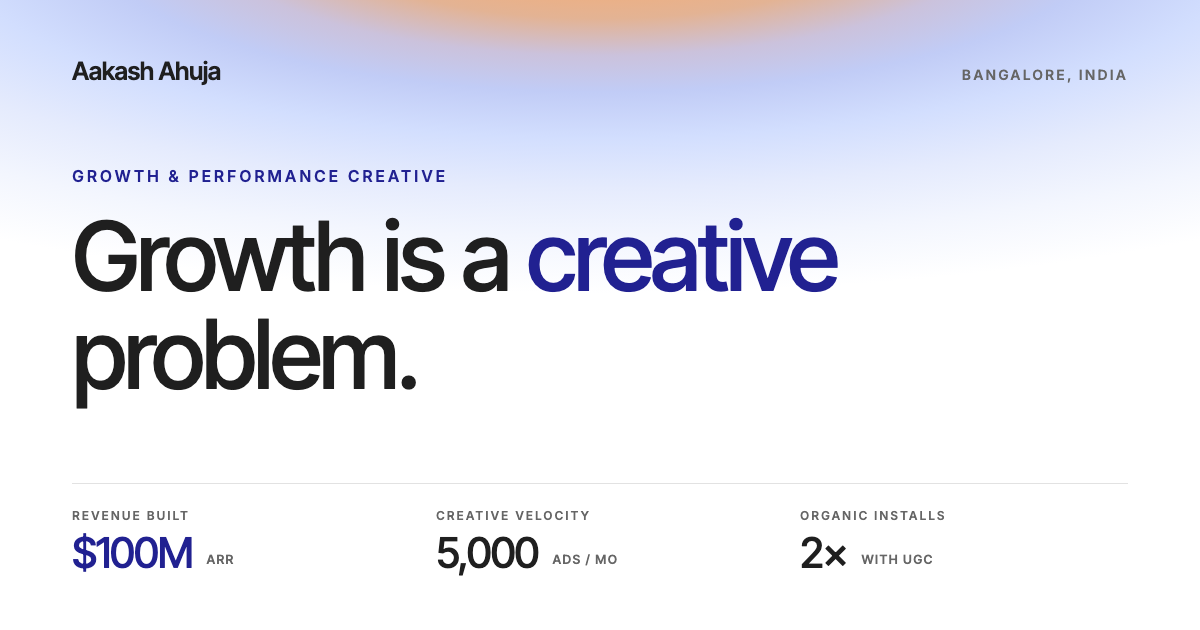
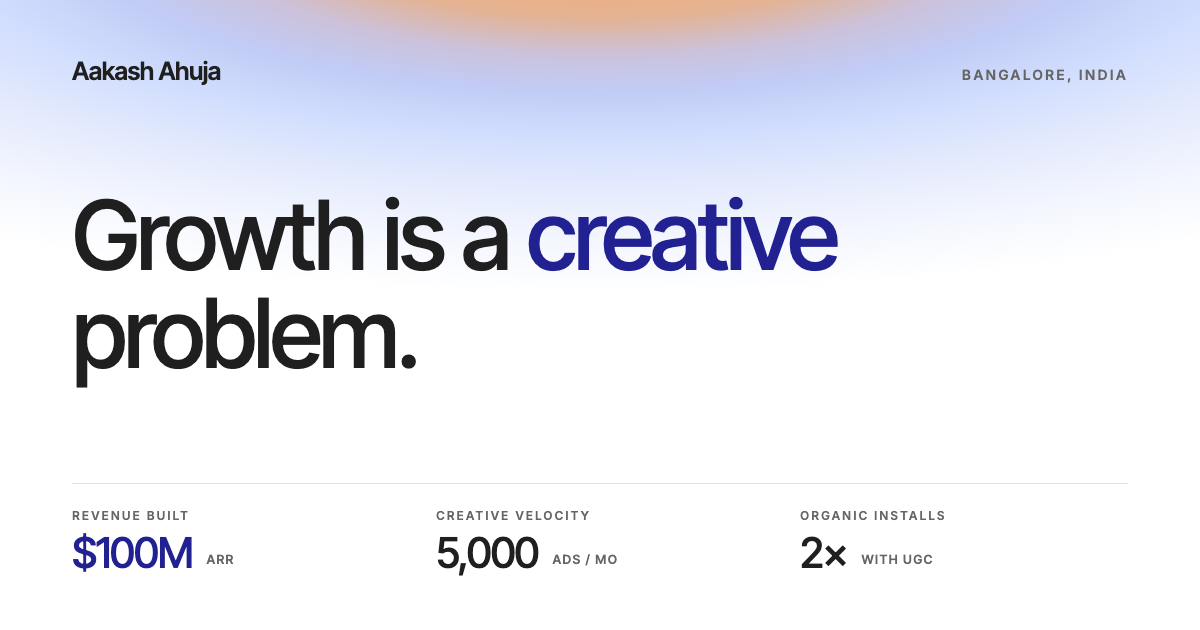
Drop "Growth & Performance Creative" from title, meta and card
Title and og/twitter titles are now just "Aakash Ahuja". Image alt now
describes the headline instead. The link-preview card loses its eyebrow,
which gives the headline more room.

Changed region(s): [[0.0617, 0.2714, 0.7092, 0.6635]]

diff --git a/index.html b/index.html
@@ -3,14 +3,14 @@
 <head>
 <meta charset="utf-8">
 <meta name="viewport" content="width=device-width, initial-scale=1">
-<title>Aakash Ahuja — Growth & Performance Creative</title>
+<title>Aakash Ahuja</title>
 <meta name="description" content="Founding-team growth operator. Scaled Kuku TV from $0 to $100M ARR and led its US launch. Bangalore, India.">
 
 <link rel="canonical" href="https://ahujaakash007.github.io/">
 <meta name="theme-color" content="#FFFFFF">
 
 <!-- Open Graph: controls how the link looks when pasted into LinkedIn / WhatsApp / email -->
-<meta property="og:title" content="Aakash Ahuja — Growth & Performance Creative">
+<meta property="og:title" content="Aakash Ahuja">
 <meta property="og:description" content="Founding-team growth at Kuku TV. $0 to $100M ARR, and the creative that got it there.">
 <meta property="og:type" content="profile">
 <meta property="og:url" content="https://ahujaakash007.github.io/">
@@ -18,9 +18,9 @@
 <meta property="og:image" content="https://ahujaakash007.github.io/og.png">
 <meta property="og:image:width" content="1200">
 <meta property="og:image:height" content="630">
-<meta property="og:image:alt" content="Aakash Ahuja — growth and performance creative. $100M ARR built from zero.">
+<meta property="og:image:alt" content="Aakash Ahuja — growth is a creative problem. $100M ARR built from zero at Kuku TV.">
 <meta name="twitter:card" content="summary_large_image">
-<meta name="twitter:title" content="Aakash Ahuja — Growth & Performance Creative">
+<meta name="twitter:title" content="Aakash Ahuja">
 <meta name="twitter:description" content="Founding-team growth at Kuku TV. $0 to $100M ARR, and the creative that got it there.">
 <meta name="twitter:image" content="https://ahujaakash007.github.io/og.png">
 
